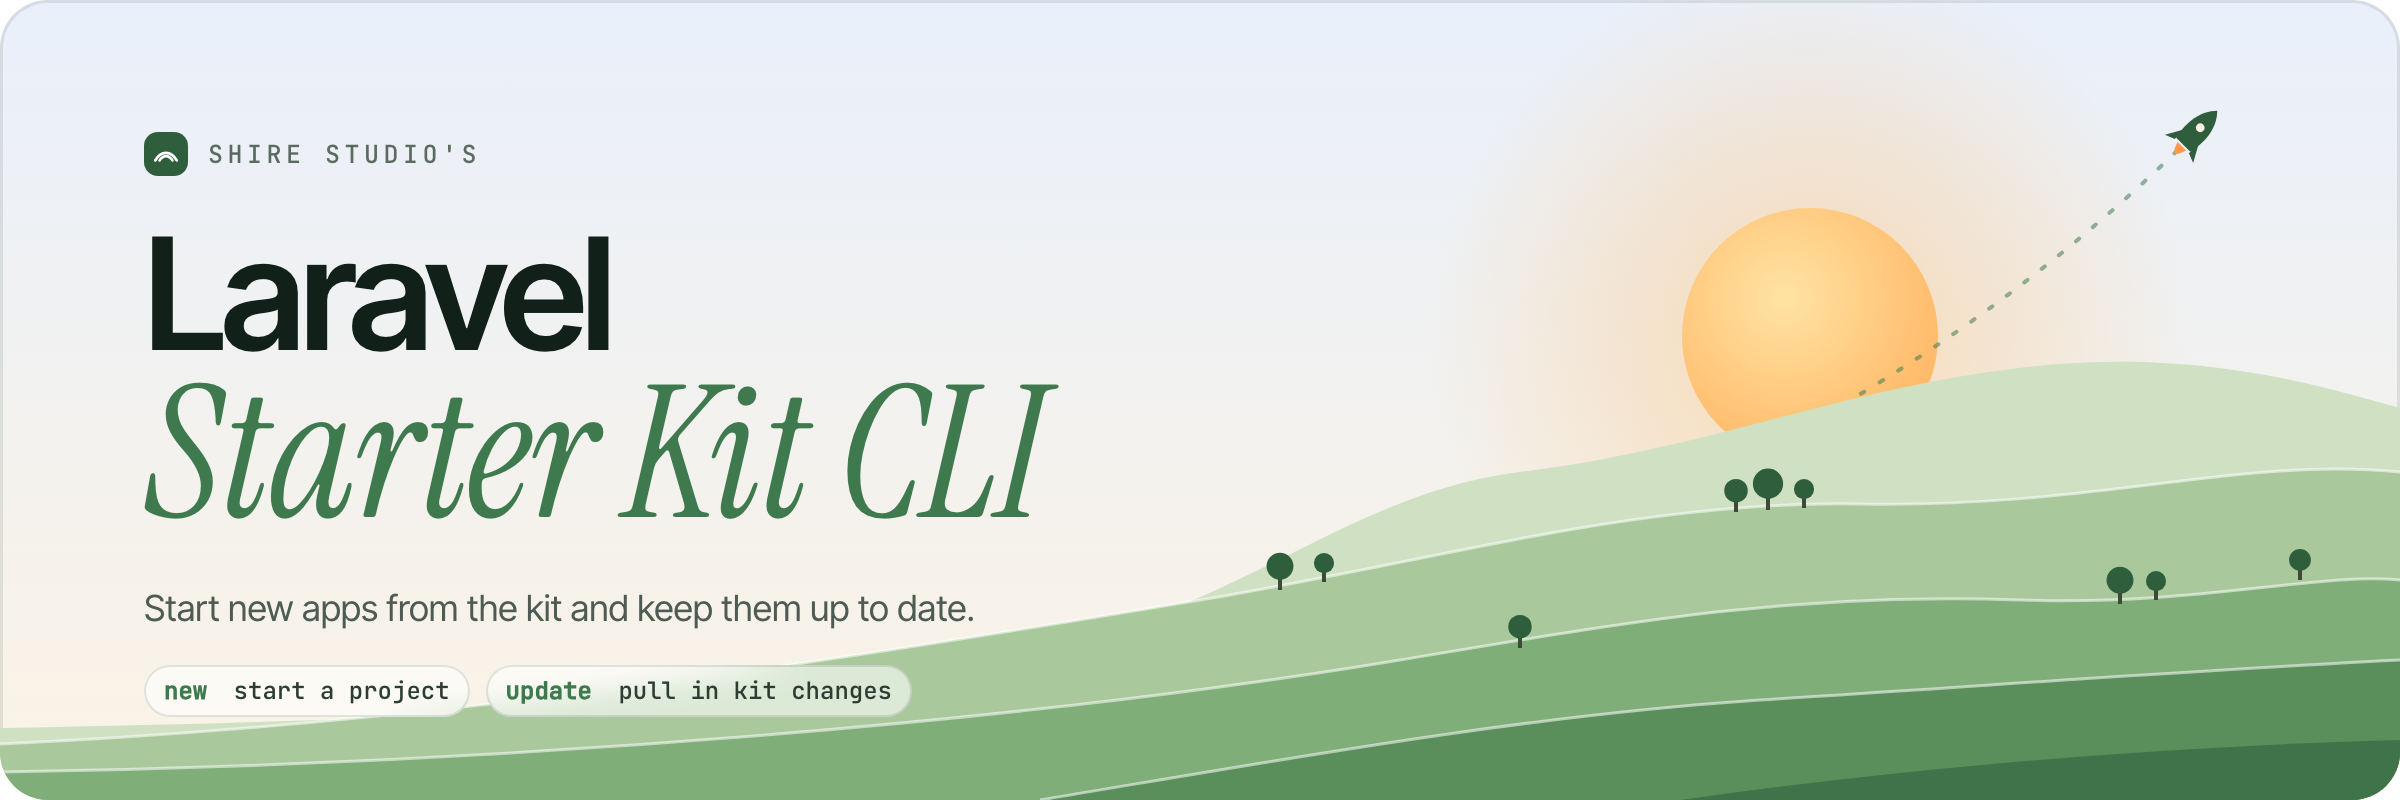
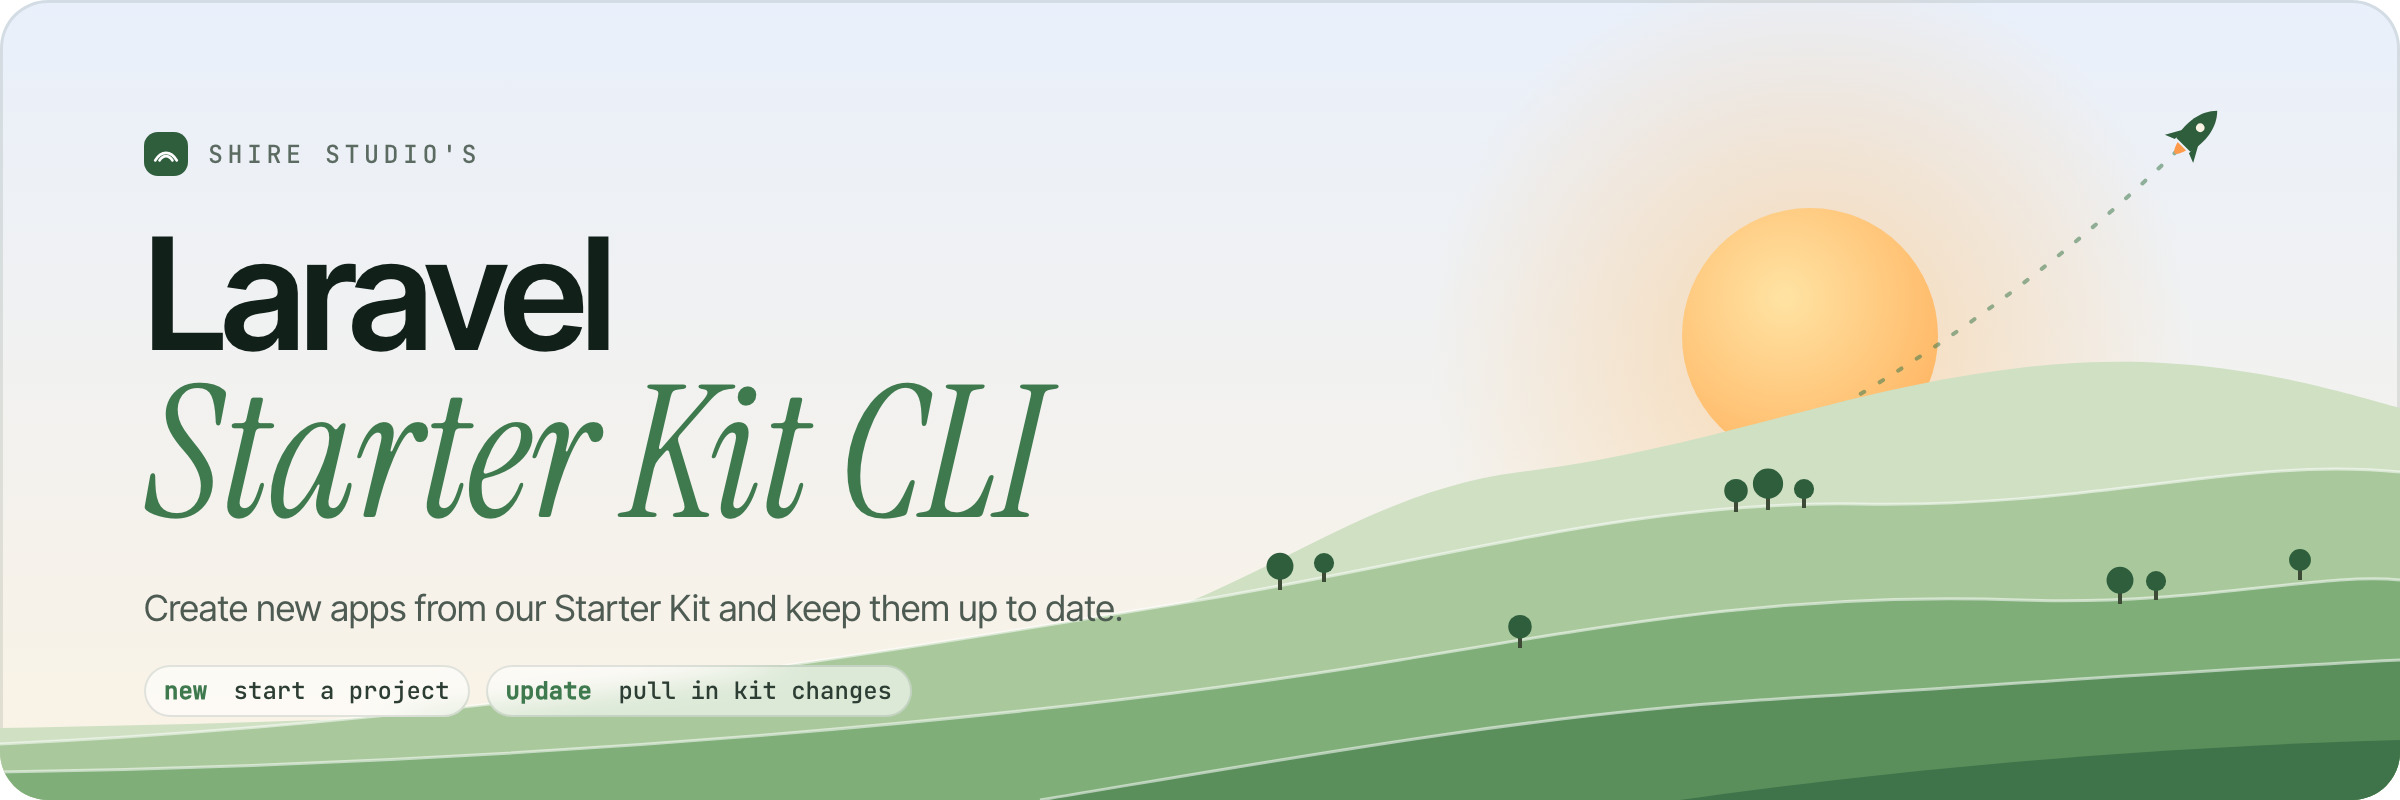
docs: update header art tagline

Changed region(s): [[0.0625, 0.75, 0.4688, 0.7812]]

diff --git a/art/header.html b/art/header.html
@@ -126,7 +126,7 @@
       Shire Studio's
     </div>
     <h1>Laravel<em>Starter Kit CLI</em></h1>
-    <p class="tagline">Start new apps from the kit and keep them up to date.</p>
+    <p class="tagline">Create new apps from our Starter Kit and keep them up to date.</p>
     <div class="stack"><span><b>new</b> start a project</span><span><b>update</b> pull in kit changes</span></div>
   </div>
 </div>
